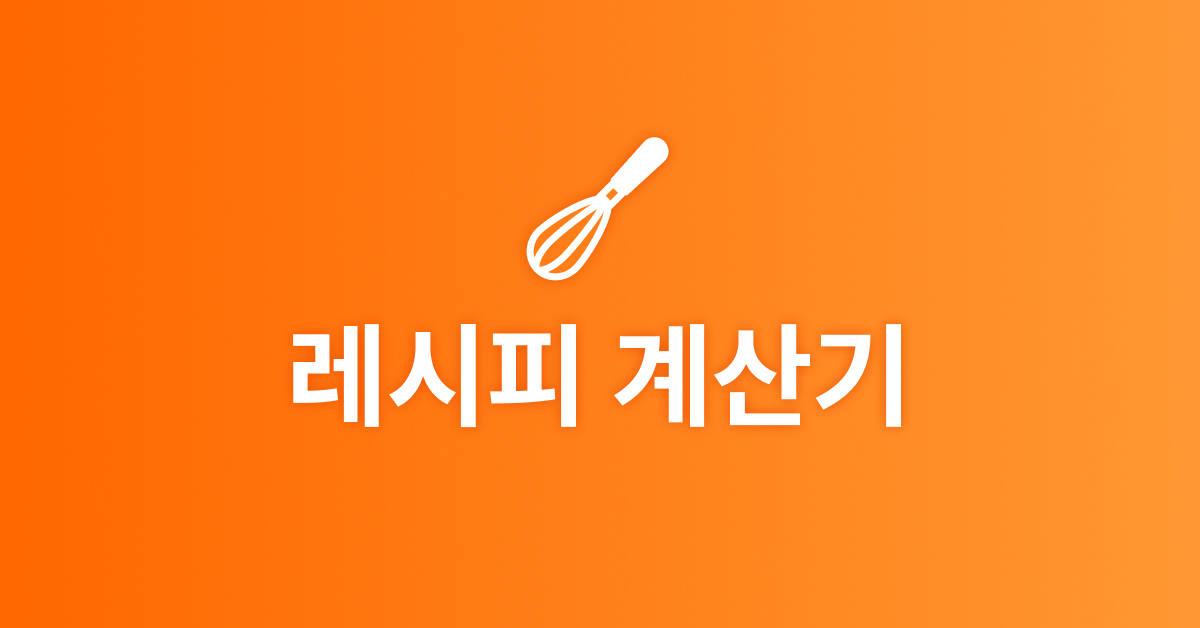
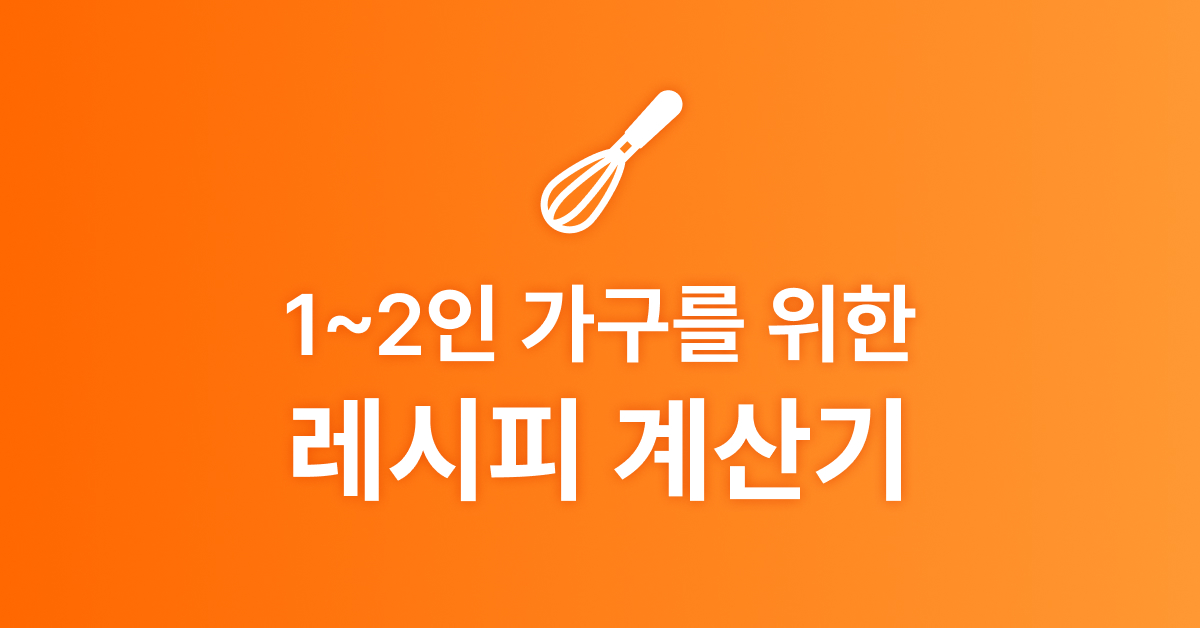
MOD og

Changed region(s): [[0.2158, 0.1513, 0.7708, 0.8169]]

diff --git a/index.html b/index.html
@@ -11,7 +11,7 @@
     <meta property="og:url" content="https://cafe9kitsune.github.io/smart-measuringcup/" />
     <!-- <link rel="icon" href="assets/img/favicon.ico" type="image/x-icon"> -->
 
-    <title>레시피 계산기</title>
+    <title>1~2인 가구를 위한 레시피 계산기</title>
     <link rel="stylesheet" as="style" crossorigin href="https://cdn.jsdelivr.net/gh/orioncactus/pretendard@v1.3.9/dist/web/static/pretendard.min.css" />
     <link rel="stylesheet" href="assets/css/main.css" />
   </head>
